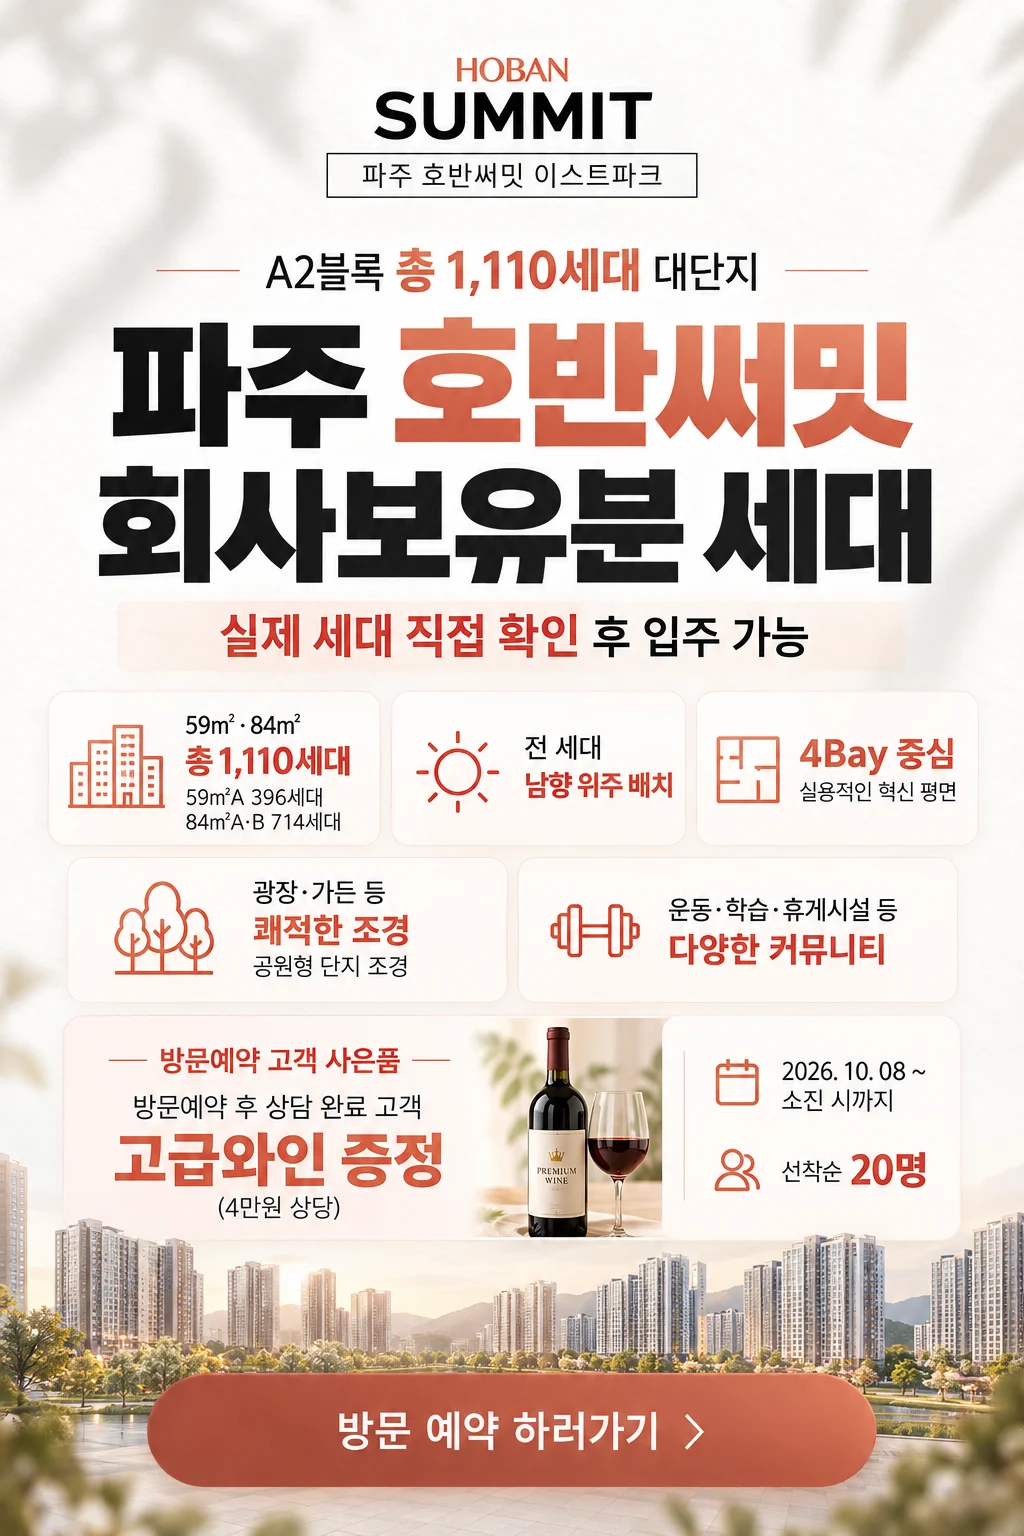
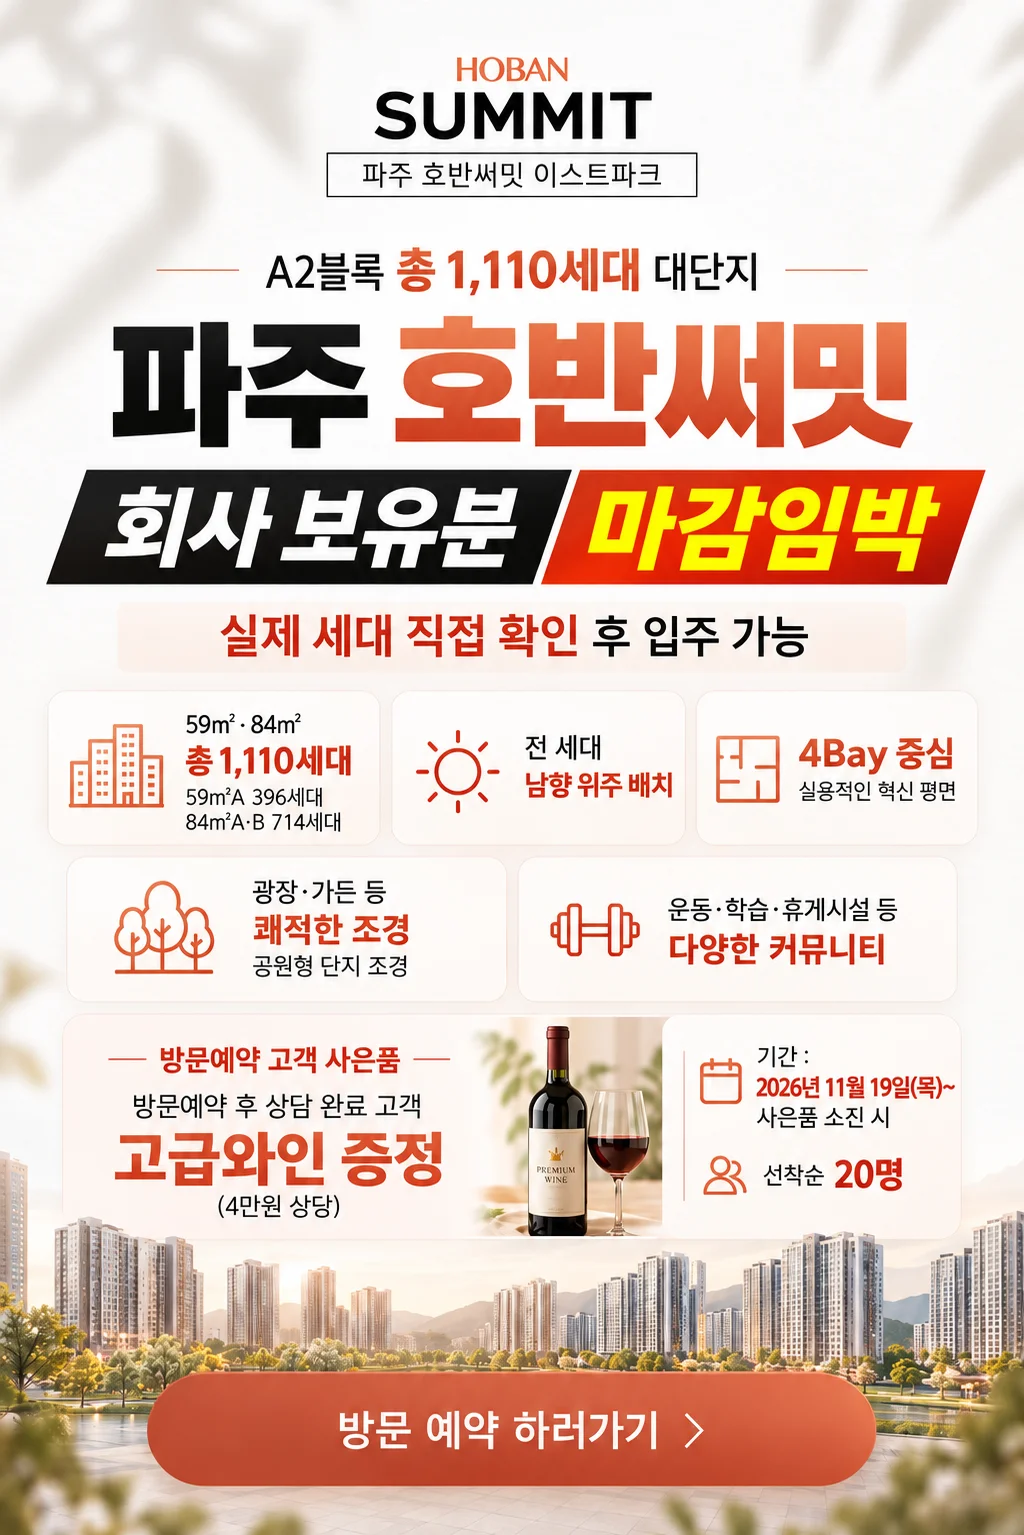
fix: 파주 호반써밋 이스트파크 팝업 이미지 교체 (사은품 기간 11/19~)

diff --git a/adaptive-landing/data/sites/paju-hoban-summit-eastpark.js b/adaptive-landing/data/sites/paju-hoban-summit-eastpark.js
@@ -92,9 +92,9 @@ const config = {
       images: [
         {
           src: '/apt/paju-hoban-summit-eastpark/popup1.webp',
-          alt: '파주 호반써밋 회사보유분 세대 — 실제 세대 직접 확인 후 입주 가능. 방문예약 후 상담 완료 고객 고급와인 증정(2026.10.08~소진 시까지, 선착순 20명)',
+          alt: '파주 호반써밋 회사보유분 세대 — 실제 세대 직접 확인 후 입주 가능. 방문예약 후 상담 완료 고객 고급와인(4만원 상당) 증정(2026.11.19~소진 시까지, 선착순 20명)',
           width: 1024,
-          height: 1536,
+          height: 1535,
           hotspots: [
             { link: '#vip-reservation', label: '방문 예약 하러가기 — 관심고객등록', left: 14, top: 89, width: 72, height: 8 },
           ],
